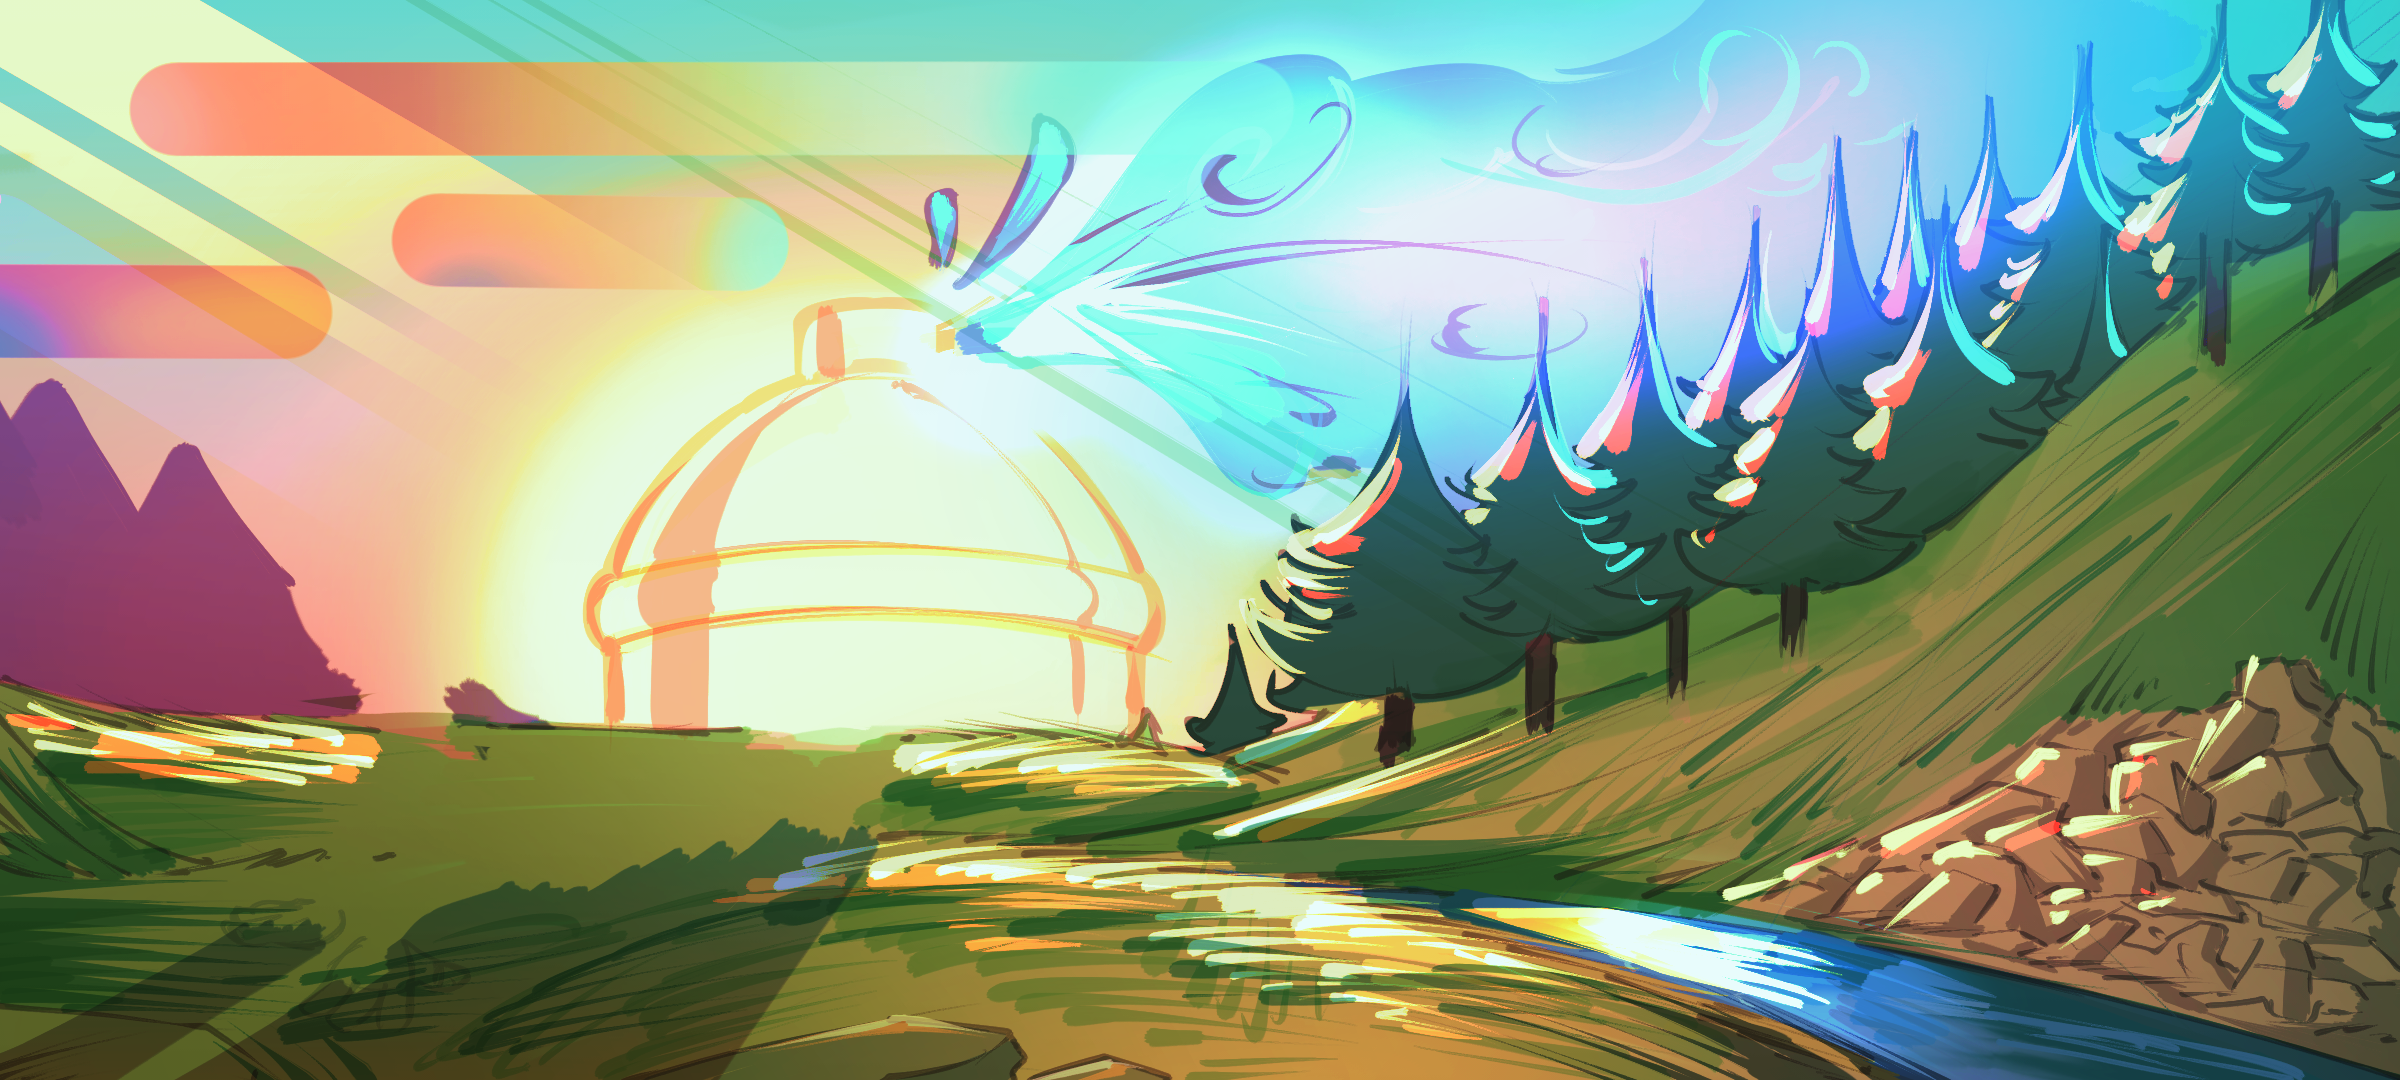
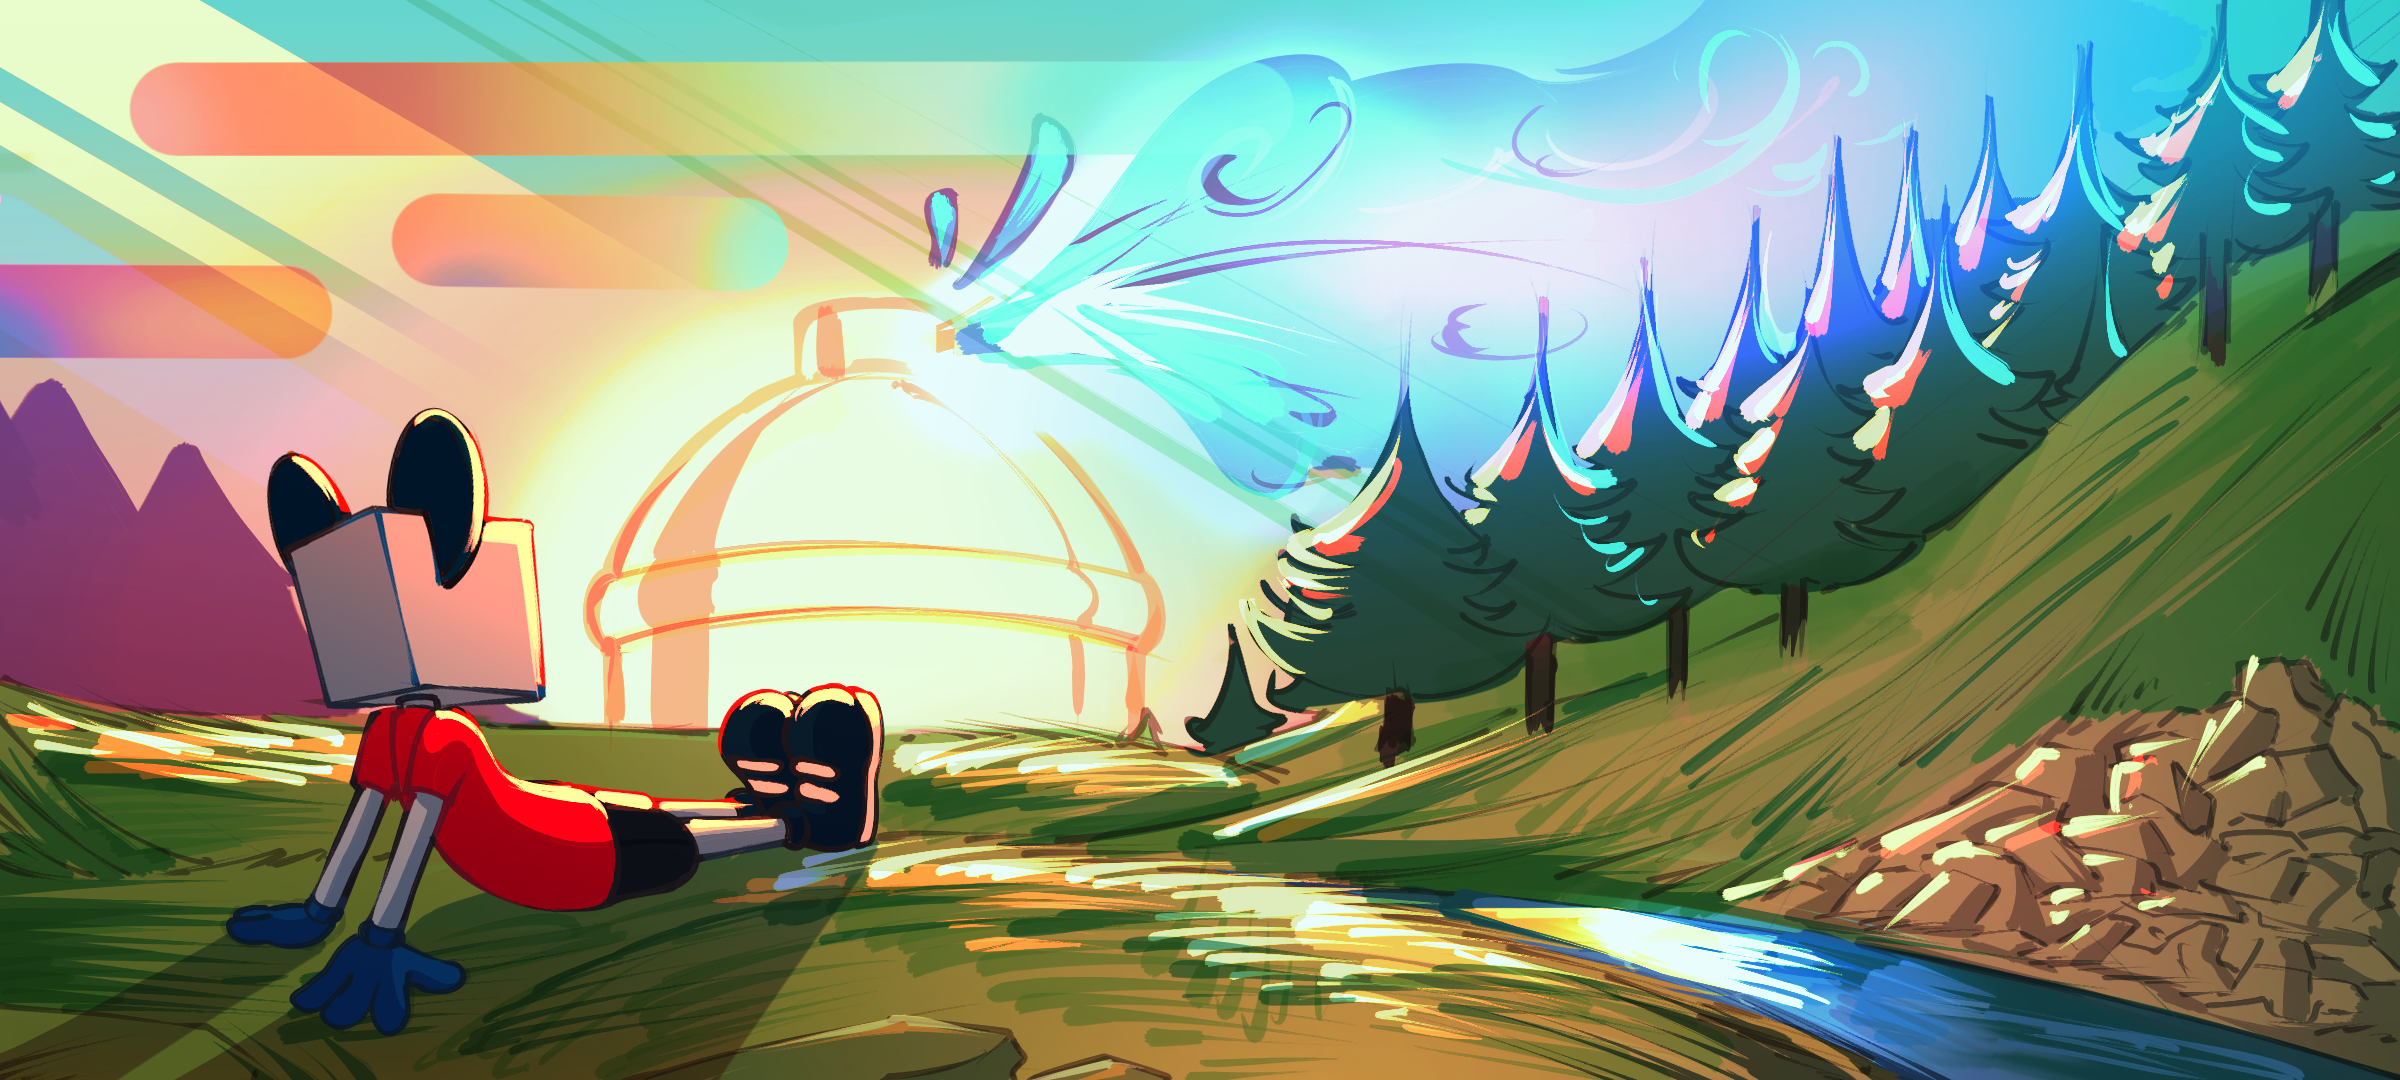
SYFT-734: final version

Changed region(s): [[0.0938, 0.3667, 0.375, 0.9472]]

diff --git a/components/Scenes/Scene-9/index.module.scss b/components/Scenes/Scene-9/index.module.scss
@@ -7,48 +7,34 @@
 
   .text {
     position: absolute;
-    top: 20%;
-    right: 20%;
+    bottom: 22%;
+    right: 10%;
     z-index: 1;
-    max-width: 400px;
+    max-width: 550px;
     color: var(--white);
     font-size: 34px;
     line-height: 1.62;
-
-    &:last-of-type {
-      max-width: 610px;
-    }
   }
-  .backdrop1,
-  .backdrop2 {
+
+  .backdrop {
     position: absolute;
     @include fullSize;
     @include bgCover;
+    background-image: url('/assets/images/scene9/1.png');
+    animation-name: toggleBg;
+    animation-iteration-count: infinite;
+    animation-duration: 3s;
   }
-  .backdrop1 {
+}
+
+@keyframes toggleBg {
+  0% {
     background-image: url('/assets/images/scene9/1.png');
   }
-
-  .backdrop2 {
-    background-image: url('/assets/images/scene9/over1.png');
+  50% {
+    background-image: url('/assets/images/scene9/2.png');
   }
-
-  .peopleLeft,
-  .peopleRight {
-    position: absolute;
-    bottom: 0;
-    height: 100%;
-
-    img {
-      height: 100%;
-    }
-  }
-
-  .peopleLeft {
-    left: 0;
-  }
-
-  .peopleRight {
-    right: 0;
+  100% {
+    background-image: url('/assets/images/scene9/1.png');
   }
 }

diff --git a/components/Scenes/Scene-9/index.js b/components/Scenes/Scene-9/index.js
@@ -3,26 +3,13 @@ import styles from './index.module.scss';
 const Scene9 = () => {
   return (
     <div className={styles.section}>
-      {/* <div className={styles.text}>
-        <p>
-          Scrappy was poor, and in school his classmates would tease and harass
-          him about it. He felt bad that his kicks were torn up and generic.
-        </p>
-      </div> */}
       <div className={styles.text}>
         <p>
-          All he wanted to rock were the same shoes as his skateboard heroes,
-          and the popular kids in his class.
+          At the end of each school day, Scrappy would walk home from
+          class.Carrying with him, all that pent up anxiety about being teased.
         </p>
       </div>
-      <div className={styles.backdrop1} />
-      <div className={styles.peopleRight}>
-        <img src="/assets/images/scene9/3.png" />
-      </div>
-      <div className={styles.peopleLeft}>
-        <img src="/assets/images/scene9/2.png" />
-      </div>
-      <div className={styles.backdrop2} />
+      <div className={styles.backdrop} />
     </div>
   );
 };
